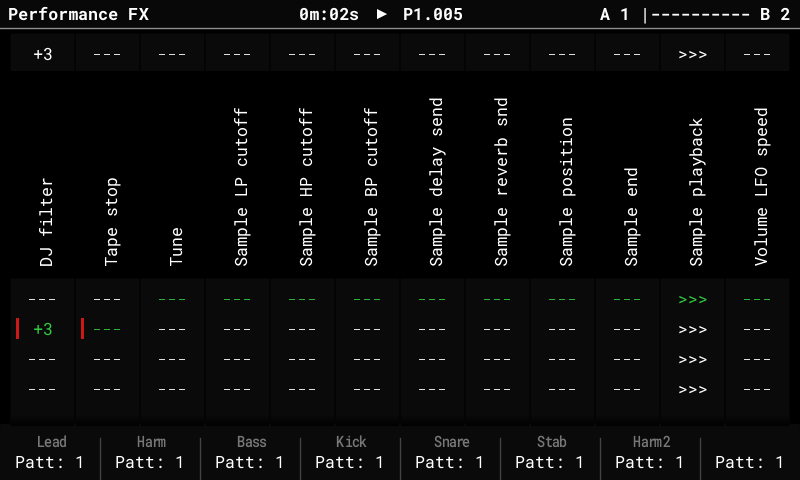
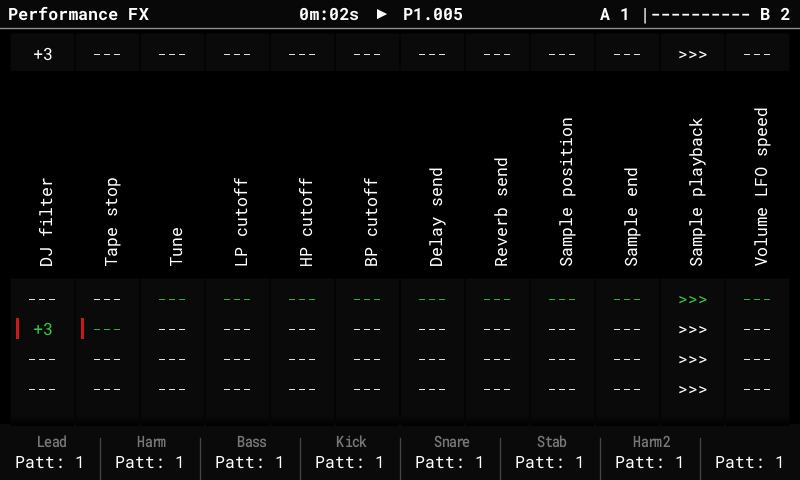
Deployed 86efb5b to dev with MkDocs 1.6.1 and mike 2.2.0

diff --git a/dev/guide/performance/index.html b/dev/guide/performance/index.html
@@ -1288,10 +1288,11 @@ columns</strong> that play an external synth's parameters.</p>
   Stock stepped the type with Up / Down, applying each one on the way.</li>
 </ul>
 <p><img alt="The effect type list" src="../../images/perf-type-list.png" />
-- <strong>The F keys</strong> turn the effects on or off per track (lit = on). <strong>Shift + F key</strong> mutes
-  the track. <strong>Left / Right</strong> (outside edit mode) switch the F keys between tracks 1–8 and
-  9–16. In the fork the F keys are <strong>remembered</strong>: leaving the screen and coming back keeps
-  them, and they're saved with the project (stock turns every track on again).</p>
+- <strong>The F keys</strong> turn the effects on or off per track (on = red label). Every track starts
+  off, as in stock, so tap the F keys of the tracks the pads should reach. <strong>Shift + F key</strong>
+  mutes the track. <strong>Left / Right</strong> (outside edit mode) switch the F keys between tracks 1–8
+  and 9–16. In the fork the F keys are <strong>remembered</strong>: leaving the screen and coming back
+  keeps them, and they're saved with the project (stock turns every track off again).</p>
 <ul>
 <li>Effect types include Volume, Panning, Tune, Low-pass / High-pass / Band-pass, Delay and
   Reverb send, Start / End pos, Direction, the LFOs, Repeater, Play mode, Length, Bit depth
@@ -1496,12 +1497,12 @@ a column does. The scenes always belong to the project.</p>
 <h3 id="the-bank-file">The bank file<a class="headerlink" href="#the-bank-file" title="Permanent link">&para;</a></h3>
 <p>Bank files are text, so they can be written or changed on a computer:</p>
 <div class="highlight"><pre><span></span><code># OpenTracker scene bank
-column 1 = Sample LP cutoff: -60 0 60
+column 1 = LP cutoff: -60 0 60
 column 2 = Tape stop: 1 3 5
 column 3 = MIDI CC: - 64 127 @ midi 2 slot A
 column 4 = ---
 scene 1 = 1 0 2 0 0 0 0 0 0 0 0 0
-scene 2 fx off = 3 4 12
+scene 2 fx on = 1 2 9
 a = 1
 b = 2
 </code></pre></div>
@@ -1512,8 +1513,8 @@ b = 2
   target, <code>@ midi 1-16 slot A-F</code>.</li>
 <li><code>scene N = ...</code> lists twelve rows, one per column, from 0 to 3, where 0 means the scene
   doesn't drive that column. Scenes that aren't listed are empty.</li>
-<li><code>scene N fx off = ...</code> lists the tracks whose F key the scene turns off (<code>none</code> turns them
-  all on). Leave the line out and the scene doesn't change the F keys.</li>
+<li><code>scene N fx on = ...</code> lists the tracks whose F key the scene turns on (<code>none</code> turns them
+  all off). Leave the line out and the scene doesn't change the F keys.</li>
 <li><code>a</code> and <code>b</code> give the scenes on A and B.</li>
 <li><code>range N = start end</code> gives column N's <a href="#fader-ranges">fader range</a> (0–100). Leave it
   out for the whole fader; a stepped column's switch point is written as <code>range N = 66 66</code>.</li>

diff --git a/dev/index.html b/dev/index.html
@@ -1138,9 +1138,10 @@ releases, a version picker at the top selects the docs that match your image.</p
 <li>The synth engines are our own design: their settings follow the Tracker Mini, and the
   sound is close but not identical.</li>
 <li>Wavetable and granular samples play the left channel only.</li>
-<li>Synth notes ignore the per-track Performance columns
-  (<a href="https://github.com/syamajala/polyend-tracker-re/issues/30">#30</a>); the master FX do
-  include them.</li>
+<li>Synth notes take the Performance filters, panning and sends; bit depth, overdrive, the
+  LFOs, start / end and direction act on samples only
+  (<a href="https://github.com/syamajala/polyend-tracker-re/issues/30">#30</a>). The master FX include
+  synth notes.</li>
 <li>The synth voice pool defaults to 4 voices because of the processor's speed.</li>
 <li>USB audio works with Linux and Windows computers, not macOS.</li>
 <li>USB Storage mode: back up the card before first use.</li>
